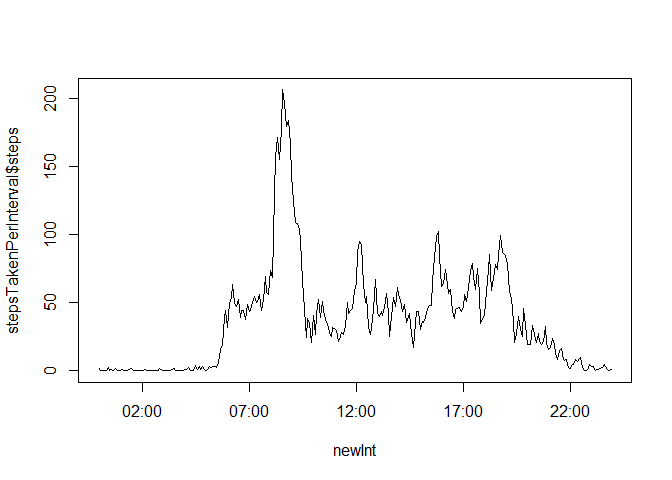
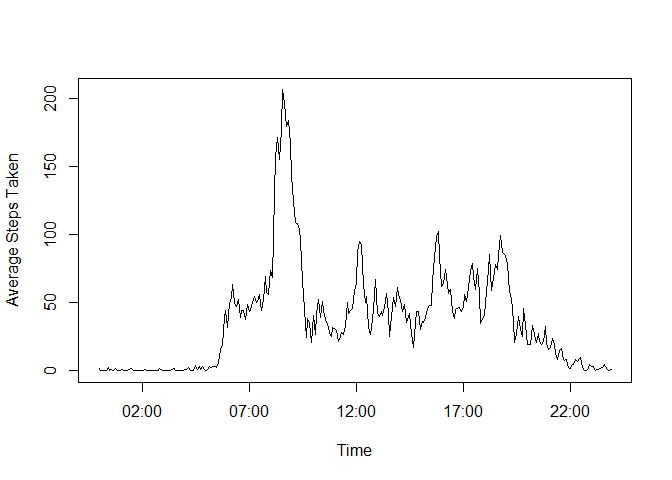
number 3

Changed region(s): [[0.0, 0.25, 0.0312, 0.6875], [0.5, 0.9062, 0.5625, 0.9688]]

diff --git a/PA1_template.html b/PA1_template.html
@@ -75,36 +75,53 @@ img {
 <p>We can first calculate the total number of steps taken per day using the aggregate function as follows:</p>
 <pre class="r"><code>stepsTakenPerDay&lt;-aggregate(steps~date, data, FUN=sum, na.rm=TRUE)</code></pre>
 <p>We can now generate a histogram using:</p>
-<pre class="r"><code>hist(stepsTakenPerDay$steps)</code></pre>
[1 lines of base64/hex data omitted]
+<pre class="r"><code>hist(stepsTakenPerDay$steps, xlab=&quot;Steps Taken&quot;)</code></pre>
[1 lines of base64/hex data omitted]
 <pre class="r"><code>mean(stepsTakenPerDay$steps)</code></pre>
 <pre><code>## [1] 10766.19</code></pre>
 <pre class="r"><code>median(stepsTakenPerDay$steps)</code></pre>
 <pre><code>## [1] 10765</code></pre>
-</div>
-<div id="what-is-the-average-daily-activity-pattern" class="section level2">
-<h2>What is the average daily activity pattern?</h2>
-<p>We first calculate the average number of steps taken per time interval using the aggregate function as follows:</p>
+<p>So mean: 10766.19 Median: 10765 ## What is the average daily activity pattern? We first calculate the average number of steps taken per time interval using the aggregate function as follows:</p>
 <pre class="r"><code>stepsTakenPerInterval&lt;-aggregate(steps~interval, data, FUN=mean, na.rm=TRUE)</code></pre>
 <p>We then write a function</p>
 <pre class="r"><code>intToHHMM &lt;- function (i) {sprintf(&quot;%02d:%02d&quot;, i %/% 100, i %% 100)}</code></pre>
 <p>that returns each interval as a proper time string in HH:MM format. We convert these strings to proper dates using strptime(), and save these values to a newInt variable:</p>
 <pre class="r"><code>newInt&lt;-strptime(intToHHMM(stepsTakenPerInterval$interval), &quot;%H:%M&quot;)</code></pre>
 <p>Finally, we plot the activity graph using:</p>
-<pre class="r"><code>plot(newInt, stepsTakenPerInterval$steps, type=&quot;l&quot;)</code></pre>
[1 lines of base64/hex data omitted]
+<pre class="r"><code>plot(newInt, stepsTakenPerInterval$steps, type=&quot;l&quot;, xlab=&quot;Time&quot;, ylab=&quot;Average Steps Taken&quot;)</code></pre>
[1 lines of base64/hex data omitted]
 <p>We can then find the max interval of time using</p>
 <pre class="r"><code>intToHHMM(stepsTakenPerInterval[which.max(stepsTakenPerInterval$steps), &quot;interval&quot;])</code></pre>
 <pre><code>## [1] &quot;08:35&quot;</code></pre>
 </div>
 <div id="imputing-missing-values" class="section level2">
 <h2>Imputing missing values</h2>
-<p>In order to find the total number of rows with NA, we use:</p>
+<p>In order to find the total number of rows with NA, w use:</p>
 <pre class="r"><code>sum(is.na(data$steps))</code></pre>
 <pre><code>## [1] 2304</code></pre>
-</div>
-<div id="are-there-differences-in-activity-patterns-between-weekdays-and-weekends" class="section level2">
-<h2>Are there differences in activity patterns between weekdays and weekends?</h2>
+<p>So 2304 missing values. We now write a function replaceNA that takes all values of our original data set where step-value is NA, and replaces the step-value with the average step-value for the given interval period. This average value will be taken from stepsTakenPerDay.</p>
+<pre class="r"><code>replaceNA &lt;- function(dataSet, meanValue) {
+    for(i in 1:length(dataSet$steps)){
+        stepsValue&lt;-dataSet[i, &quot;steps&quot;]
+        intervalValue&lt;-dataSet[i, &quot;interval&quot;]
+        if(is.na(stepsValue)){
+            dataSet[i, &quot;steps&quot;]&lt;-meanValue$steps[which(meanValue$interval==dataSet[i, &quot;interval&quot;])]
+        }
+    }
+    dataSet
+}</code></pre>
+<p>We create a new data-set with these values filled in, and name it newData:</p>
+<pre class="r"><code>newData&lt;-replaceNA(data, stepsTakenPerInterval)</code></pre>
+<p>We can now generate a histogram using:</p>
+<pre class="r"><code>newStepsTakenPerDay&lt;-aggregate(steps~date, newData, FUN=sum, na.rm=TRUE)
+hist(newStepsTakenPerDay$steps)</code></pre>
[1 lines of base64/hex data omitted]
+<p>We can then calculate the mean and median steps taken per day as:</p>
+<pre class="r"><code>mean(newStepsTakenPerDay$steps)</code></pre>
+<pre><code>## [1] 10766.19</code></pre>
+<pre class="r"><code>median(newStepsTakenPerDay$steps)</code></pre>
+<pre><code>## [1] 10766.19</code></pre>
+<p>So mean is 37.3826 compared to 10766.19 from earlier, and median is 0 compared to 10765 from earlier ## Are there differences in activity patterns between weekdays and weekends?</p>
 </div>
 
 

diff --git a/PA1_template.md b/PA1_template.md
@@ -19,7 +19,7 @@ stepsTakenPerDay<-aggregate(steps~date, data, FUN=sum, na.rm=TRUE)
 We can now generate a histogram using:
 
 ```r
-hist(stepsTakenPerDay$steps)
+hist(stepsTakenPerDay$steps, xlab="Steps Taken")
 ```
 
 ![](PA1_template_files/figure-html/unnamed-chunk-3-1.png) 
@@ -40,6 +40,8 @@ median(stepsTakenPerDay$steps)
 ```
 ## [1] 10765
 ```
+So mean: 10766.19
+Median: 10765
 ## What is the average daily activity pattern?
 We first calculate the average number of steps taken per time interval using the aggregate function as follows:
 
@@ -59,7 +61,7 @@ newInt<-strptime(intToHHMM(stepsTakenPerInterval$interval), "%H:%M")
 Finally, we plot the activity graph using: 
 
 ```r
-plot(newInt, stepsTakenPerInterval$steps, type="l")
+plot(newInt, stepsTakenPerInterval$steps, type="l", xlab="Time", ylab="Average Steps Taken")
 ```
 
 ![](PA1_template_files/figure-html/unnamed-chunk-8-1.png) 
@@ -75,7 +77,7 @@ intToHHMM(stepsTakenPerInterval[which.max(stepsTakenPerInterval$steps), "interva
 ```
 
 ## Imputing missing values
-In order to find the total number of rows with NA, we use:
+In order to find the total number of rows with NA, w use:
 
 ```r
 sum(is.na(data$steps))
@@ -84,6 +86,52 @@ sum(is.na(data$steps))
 ```
 ## [1] 2304
 ```
+So 2304 missing values.
+We now write a function replaceNA that takes all values of our original data set where step-value is NA, and replaces the step-value with the average step-value for the given interval period. This average value will be taken from stepsTakenPerDay.
 
+```r
+replaceNA <- function(dataSet, meanValue) {
+    for(i in 1:length(dataSet$steps)){
+        stepsValue<-dataSet[i, "steps"]
+        intervalValue<-dataSet[i, "interval"]
+        if(is.na(stepsValue)){
+            dataSet[i, "steps"]<-meanValue$steps[which(meanValue$interval==dataSet[i, "interval"])]
+        }
+    }
+    dataSet
+}
+```
+We create a new data-set with these values filled in, and name it newData:
 
+```r
+newData<-replaceNA(data, stepsTakenPerInterval)
+```
+We can now generate a histogram using:
+
+```r
+newStepsTakenPerDay<-aggregate(steps~date, newData, FUN=sum, na.rm=TRUE)
+hist(newStepsTakenPerDay$steps)
+```
+
+![](PA1_template_files/figure-html/unnamed-chunk-13-1.png) 
+
+We can then calculate the mean and median steps taken per day as: 
+
+```r
+mean(newStepsTakenPerDay$steps)
+```
+
+```
+## [1] 10766.19
+```
+
+```r
+median(newStepsTakenPerDay$steps)
+```
+
+```
+## [1] 10766.19
+```
+So mean is 37.3826 compared to 10766.19 from earlier, and 
+median is 0 compared to 10765 from earlier
 ## Are there differences in activity patterns between weekdays and weekends?
